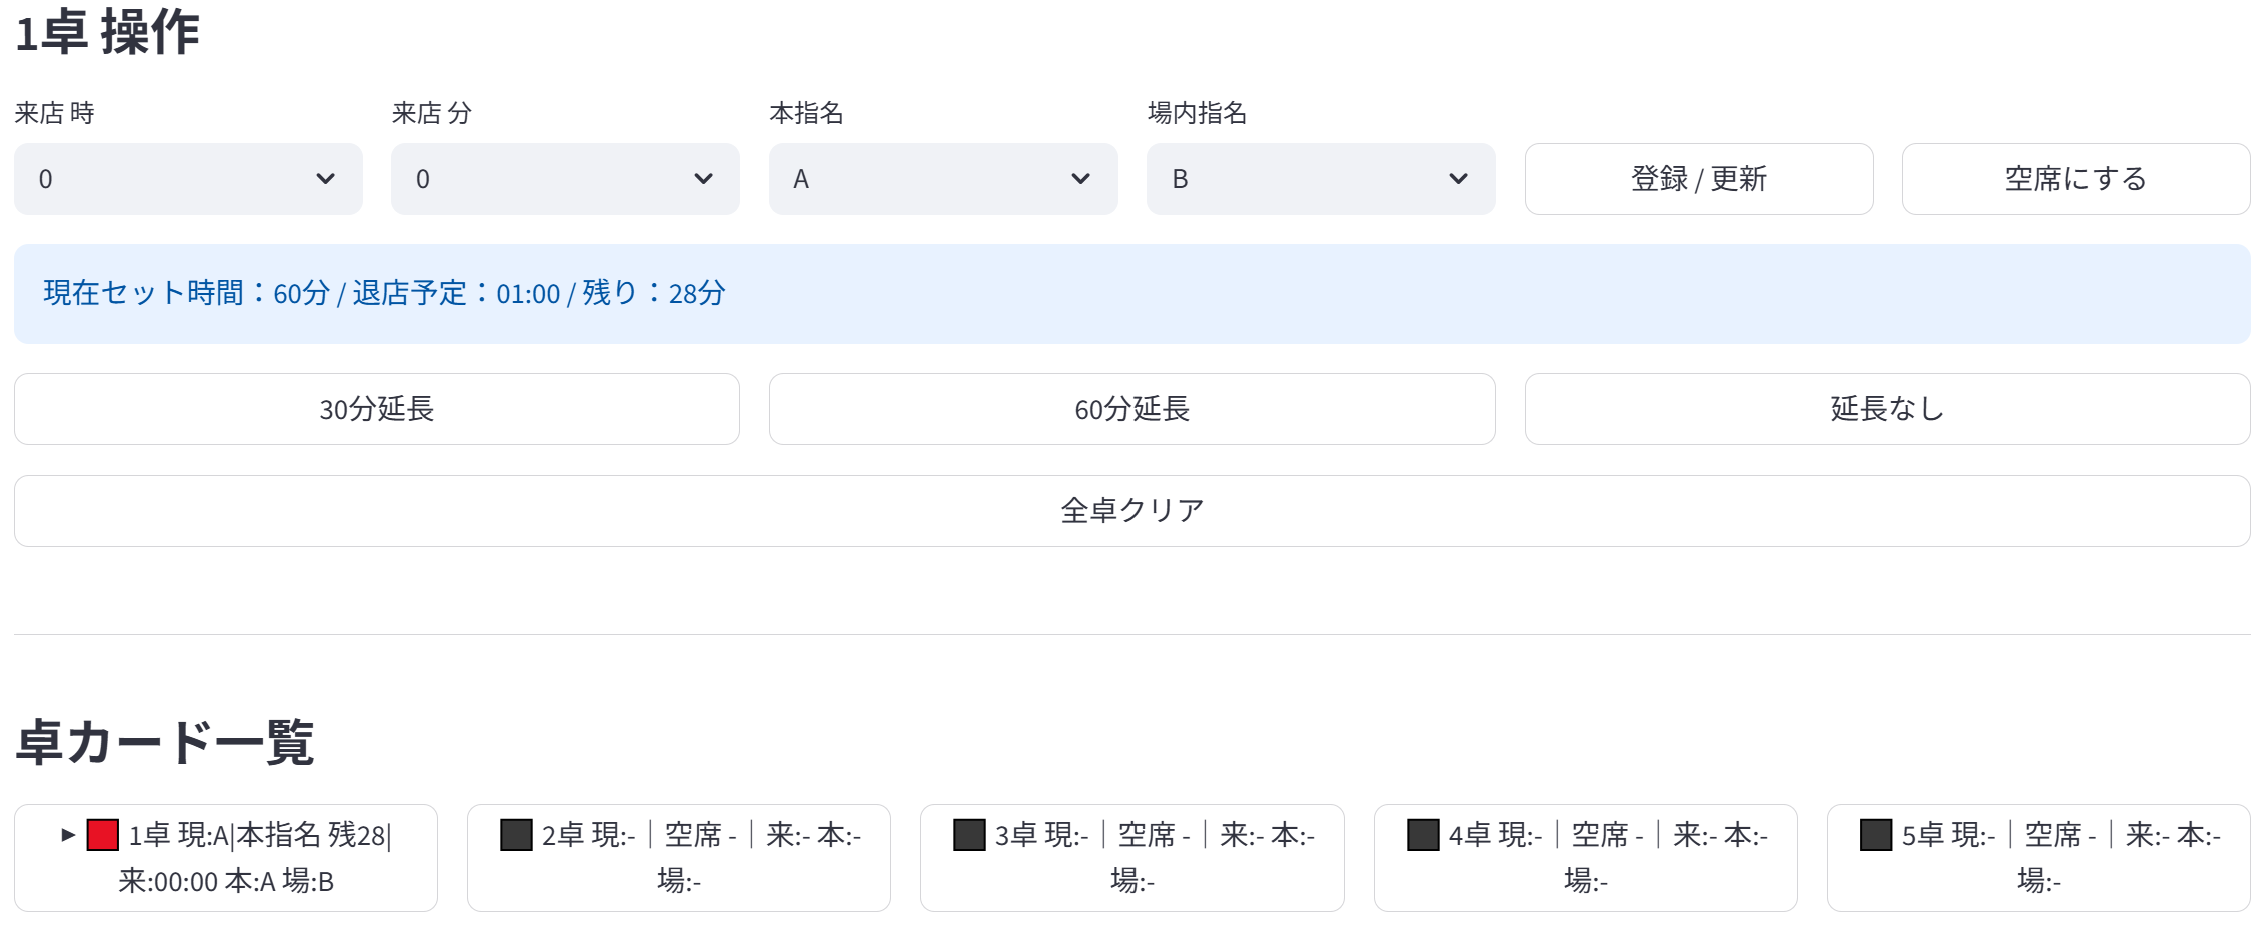
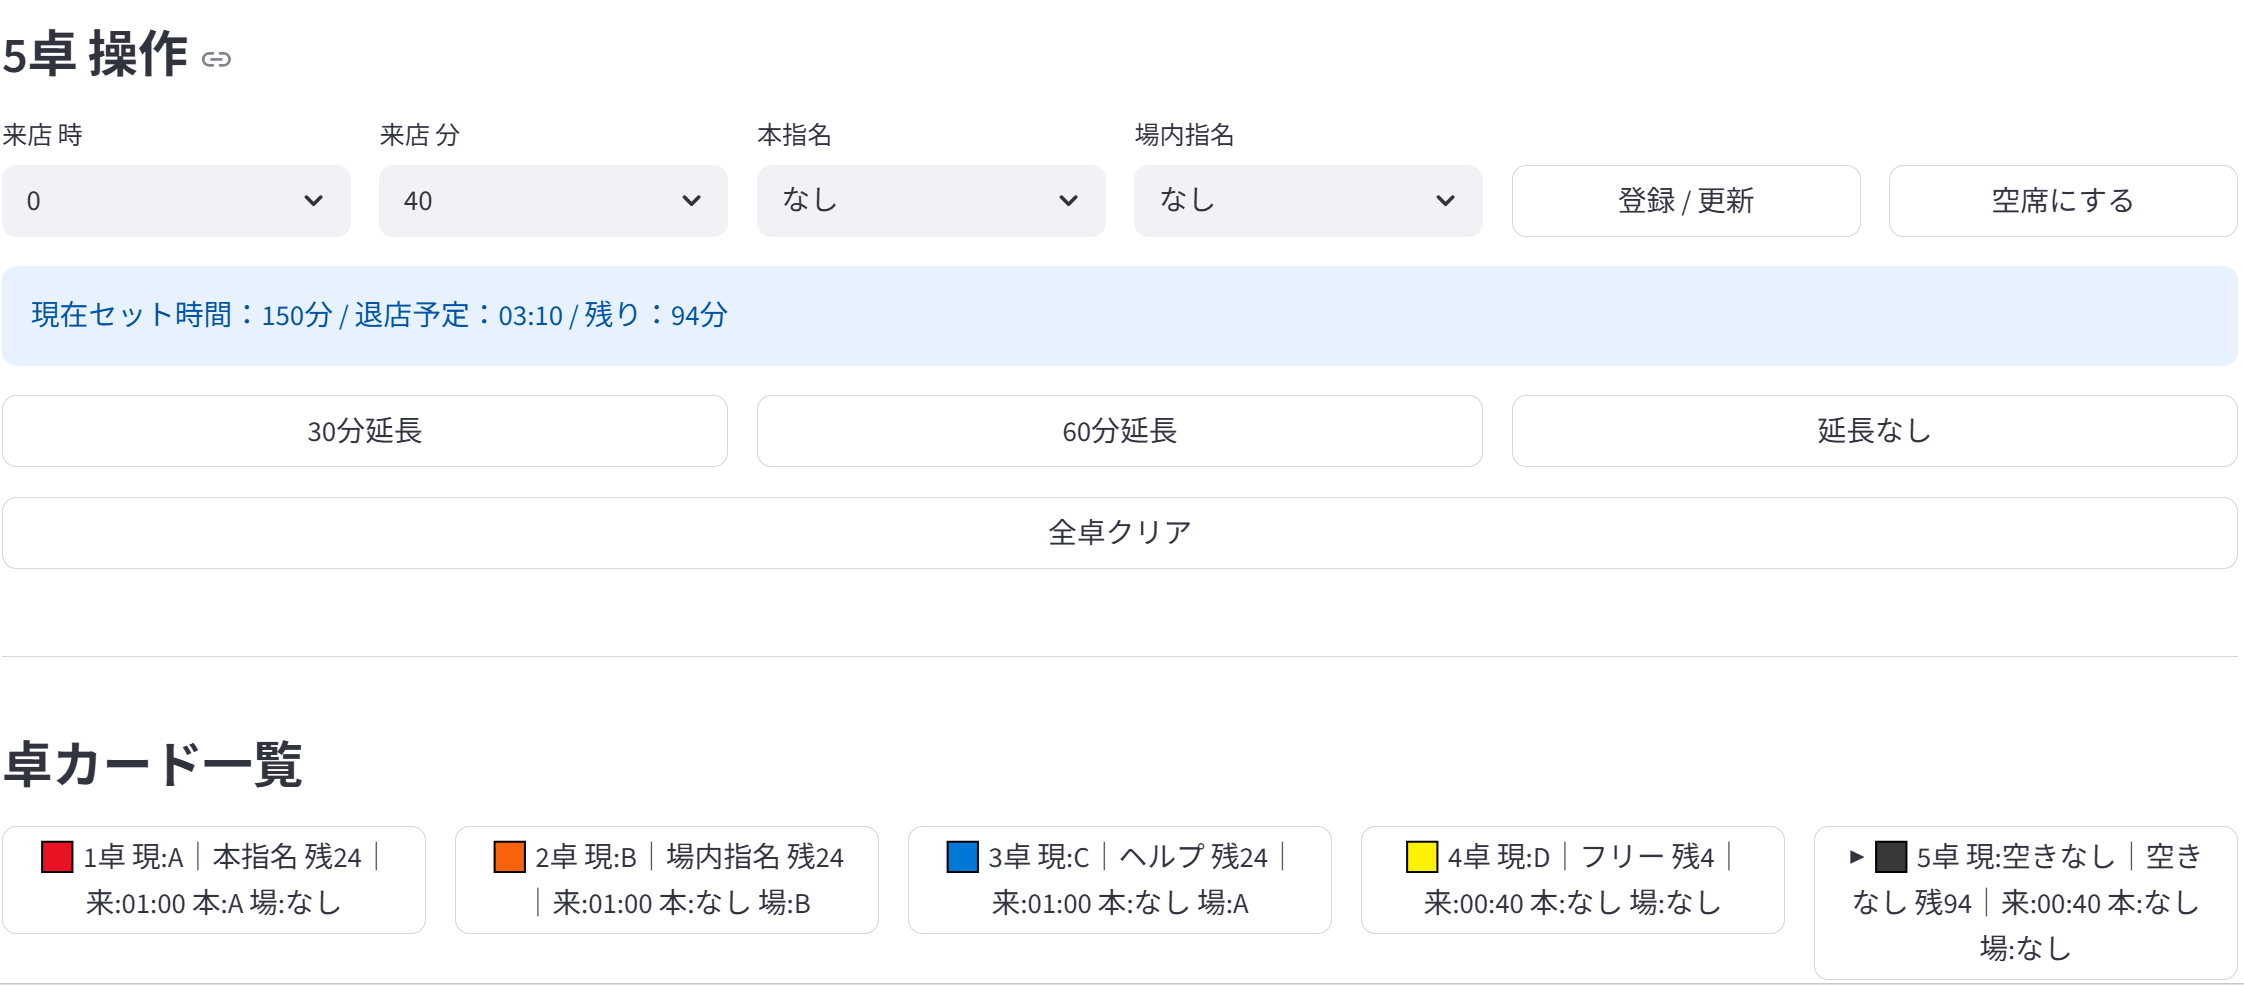
improve portfolio screenshot

diff --git a/app.py b/app.py
@@ -201,6 +201,14 @@ if selected_customer is not None:
             st.session_state.customers[st.session_state.selected_table]["set_time"] = (
                 customer_set_time(selected_customer) + 30
             )
+
+            st.session_state.planned_schedule = create_schedule(
+                casts,
+                st.session_state.customers,
+                st.session_state.actual_assignments,
+                rotation_time
+            )
+
             st.rerun()
 
     with ext2:
@@ -208,11 +216,27 @@ if selected_customer is not None:
             st.session_state.customers[st.session_state.selected_table]["set_time"] = (
                 customer_set_time(selected_customer) + 60
             )
+
+            st.session_state.planned_schedule = create_schedule(
+                casts,
+                st.session_state.customers,
+                st.session_state.actual_assignments,
+                rotation_time
+            )
+
             st.rerun()
 
     with ext3:
         if st.button("延長なし", use_container_width=True):
             st.session_state.customers[st.session_state.selected_table]["set_time"] = 60
+
+            st.session_state.planned_schedule = create_schedule(
+                casts,
+                st.session_state.customers,
+                st.session_state.actual_assignments,
+                rotation_time
+            )
+
             st.rerun()
 
 
